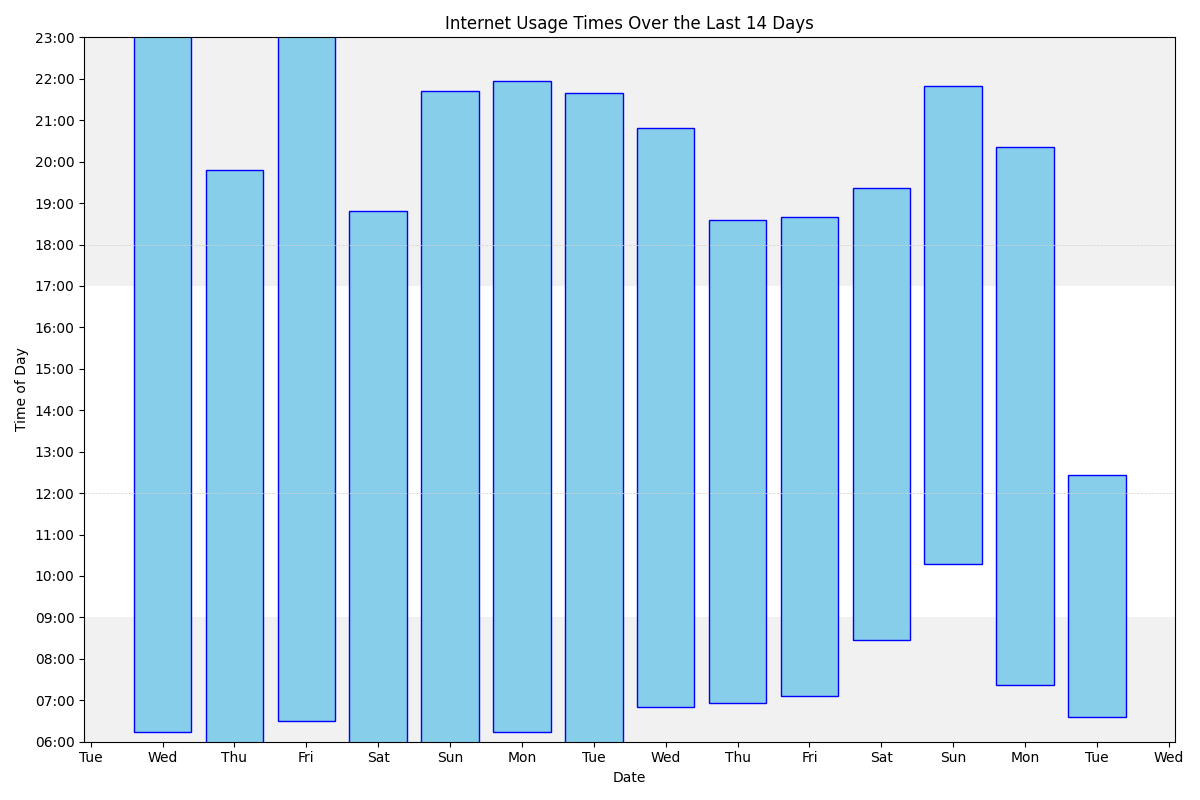
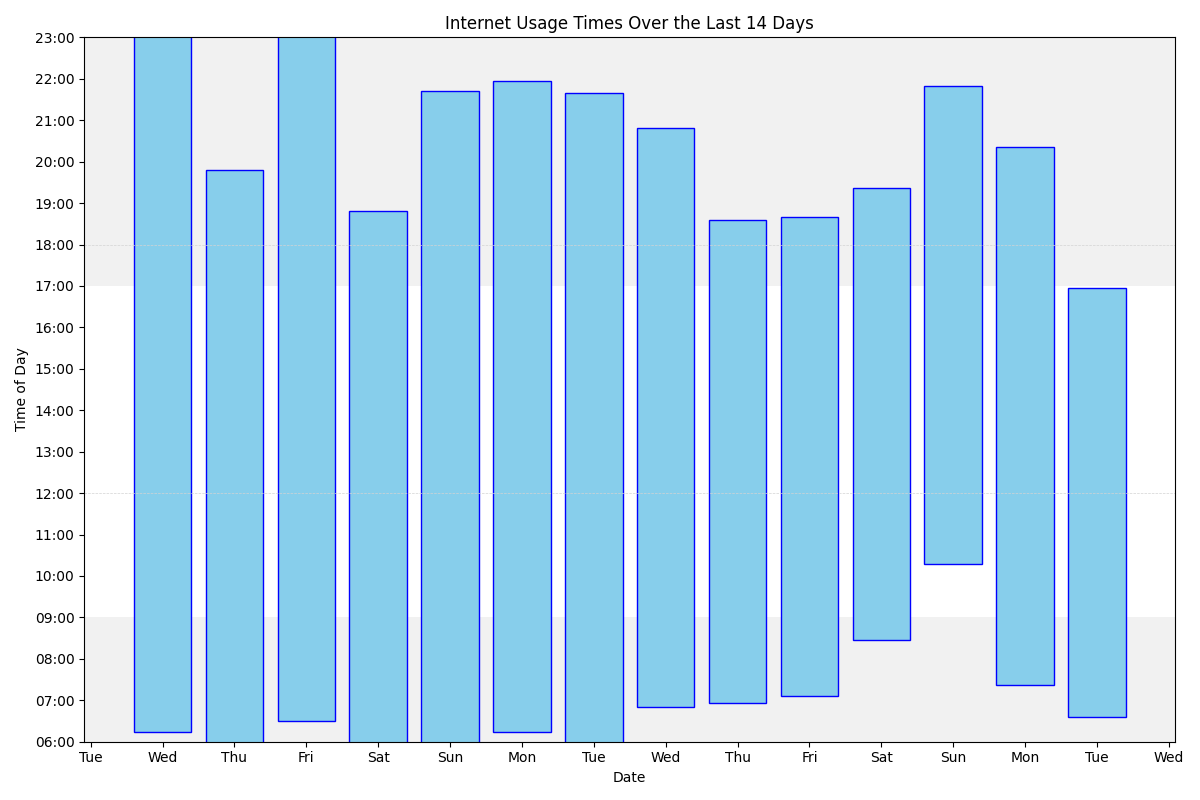
Update

Changed region(s): [[0.8633, 0.3438, 0.9558, 0.5938]]

diff --git a/index.md b/index.md
@@ -70,15 +70,15 @@ With number of accesses/minutes in parentheses
 
 <ol><li>www.google.com (2984)</li>
 <li>outlook.office.com (2567)</li>
-<li>mail.google.com (2446)</li>
+<li>mail.google.com (2450)</li>
 <li>docs.google.com (1930)</li>
 <li>bsky.app (1458)</li>
 <li>outlook.office365.com (1442)</li>
 <li>www.facebook.com (1394)</li>
 <li>www.reddit.com (1379)</li>
-<li>duckduckgo.com (1004)</li>
+<li>duckduckgo.com (1010)</li>
 <li>www.theguardian.com (810)</li>
-<li>chatgpt.com (713)</li>
+<li>chatgpt.com (714)</li>
 <li>www.amazon.co.uk (712)</li>
 <li>calendar.google.com (490)</li>
 <li>rhul-my.sharepoint.com (471)</li>
@@ -87,12 +87,12 @@ With number of accesses/minutes in parentheses
 <li>github.com (408)</li>
 <li>login.microsoftonline.com (381)</li>
 <li>tvtropes.org (358)</li>
-<li>gmail.com (345)</li>
+<li>gmail.com (346)</li>
 <li>web.whatsapp.com (309)</li>
 <li>drive.google.com (279)</li>
 <li>feedly.com (279)</li>
 <li>fritz.box (277)</li>
-<li>chat.openai.com (269)</li>
+<li>chat.openai.com (270)</li>
 <li>qbo.intuit.com (230)</li>
 <li>www.coursera.org (208)</li>
 <li>rhul.sharepoint.com (204)</li>
@@ -105,6 +105,32 @@ With number of accesses/minutes in parentheses
 <ul></ul>
 
 <H3>Tuesday, 20/05/25</H3>
+
+<br>
+
+<ul><li> 16:56 www.cancerresearchuk.org</li>
+<li> 16:56 duckduckgo.com</li>
+<li> 16:56 fundraise.cancerresearchuk.org</li>
+<li> 16:51 studygroupuk.applytojob.com</li>
+<li> 16:51 www.google.co.uk</li>
+<li> 16:51 duckduckgo.com</li>
+<li class='same'> 16:50 duckduckgo.com</li>
+<li> 16:49 <a href="https://en.wikipedia.org/wiki/University_of_Huddersfield">University of Huddersfield - Wikipedia</a></li>
+<li> 16:49 duckduckgo.com</li>
+<li> 16:49 huddersfieldhub.co.uk</li>
+<li> 16:48 duckduckgo.com</li>
+<li> 16:48 studygroupuk.applytojob.com</li>
+<li> 16:48 duckduckgo.com</li>
+<li> 16:41 mail.google.com</li>
+<li class='same'> 16:40 mail.google.com</li>
+<li class='same'> 16:39 mail.google.com</li>
+<li class='same'> 16:38 mail.google.com</li>
+<li> 16:38 gmail.com</li>
+<li> 16:12 chatgpt.com</li>
+<li> 16:12 chat.openai.com</li>
+<li> 16:10 ico.org.uk</li>
+<li> 16:10 icosearch.ico.org.uk</li>
+</ul>
 
 <br>
 
